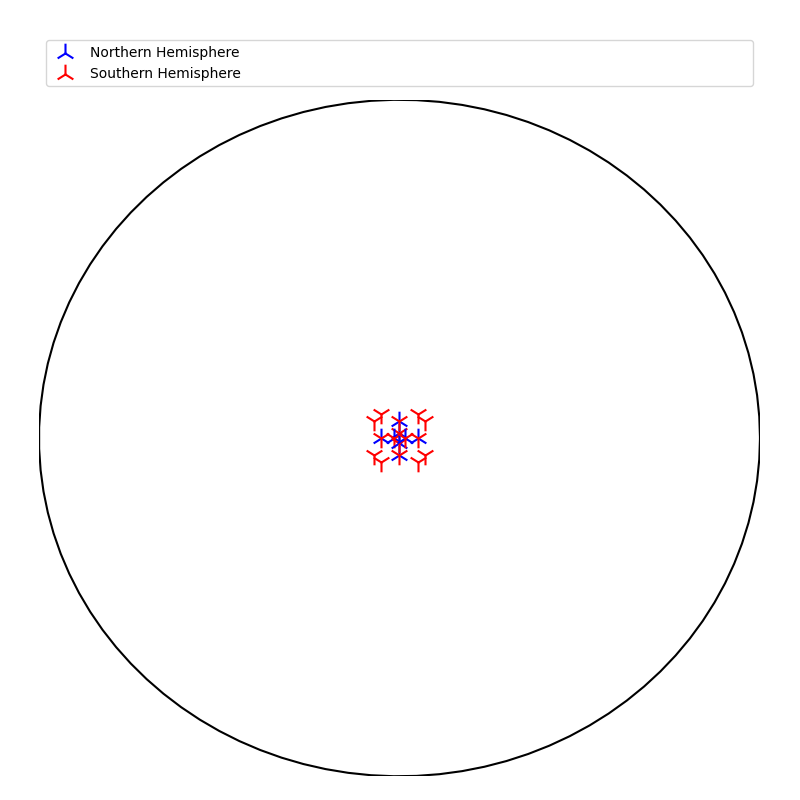
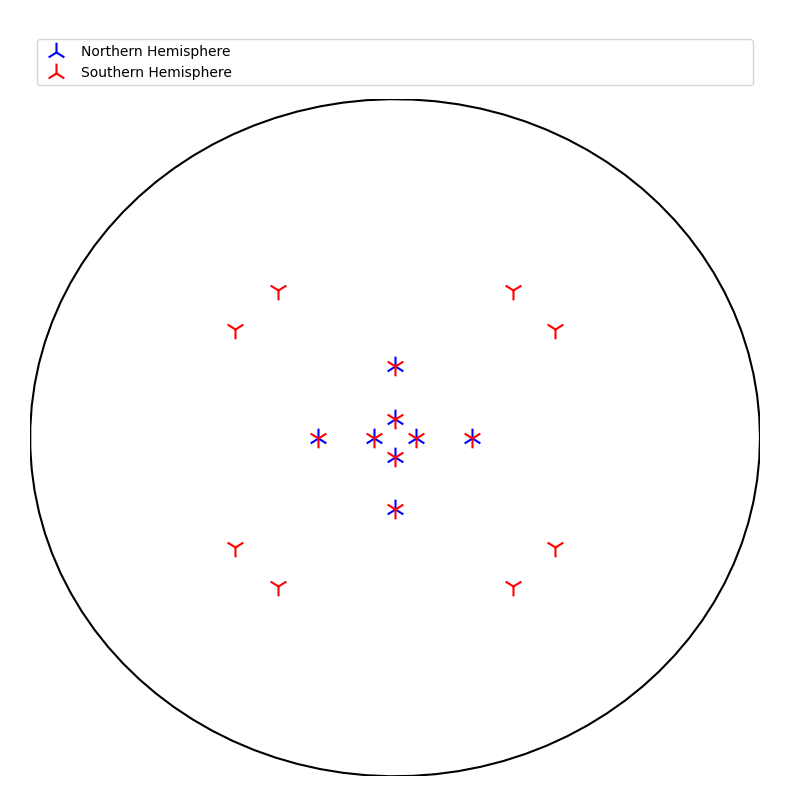
fixed tetrakis stereo

diff --git a/main.py b/main.py
@@ -13,7 +13,7 @@ def delete_all_frames():
     """
     """
     os.system('rm Images/frames/*')
-    
+
 ################################################################################
 
 def make_all_structure_gifs():
@@ -77,17 +77,17 @@ def make_all_operations_gifs():
     """
 
     objects = [
-                # {'code'    : 'rotation(ax,2,2,2)',
-                #  'name'    : 'rotation'},
+                {'code'    : 'rotation(ax,2,2,2)',
+                 'name'    : 'rotation'},
 
-                # {'code'    : 'inversion(ax,2,2,2)',
-                #  'name'    : 'inversion'},
+                {'code'    : 'inversion(ax,2,2,2)',
+                 'name'    : 'inversion'},
 
-                # {'code'    : 'reflection(ax,2,2,2)',
-                #  'name'    : 'reflection'},
+                {'code'    : 'reflection(ax,2,2,2)',
+                 'name'    : 'reflection'},
 
-                # {'code'    : 'cube_reflection(ax)',
-                #  'name'    : 'cube_reflection'},
+                {'code'    : 'cube_reflection(ax)',
+                 'name'    : 'cube_reflection'},
 
                 {'code'    : 'cube_reflection_diag(ax)',
                  'name'    : 'cube_reflection_diag'}
@@ -308,7 +308,7 @@ def make_all_stereos():
           
                 {'code': """points = normal_points(ax,biprismid(ax,3,1,0.5,5),1);Stereographic_projection(points,2,'stereographic_projection_biprismid')"""},
      
-                {'code': """points = normal_points(ax,tetrakis(ax,4,1),10);Stereographic_projection(points,10,'stereographic_projection_tetrakis')"""}
+                {'code': """points = normal_points(ax,tetrakis(ax,4,1),10);Stereographic_projection(points,4,'stereographic_projection_tetrakis')"""}
                   ]
 
     for stereo in stereos:
@@ -396,8 +396,8 @@ def make_all_stereo_gifs():
 # make_all_operations_gifs()
 # make_all_shape_gifs()
 # make_all_face_norm_gifs()
-# make_all_stereos()
-make_all_stereo_gifs()
+make_all_stereos()
+#make_all_stereo_gifs()
 
 # fig = plt.figure(0,figsize=[8,8])
 # ax = fig.add_subplot(111,projection='3d')
